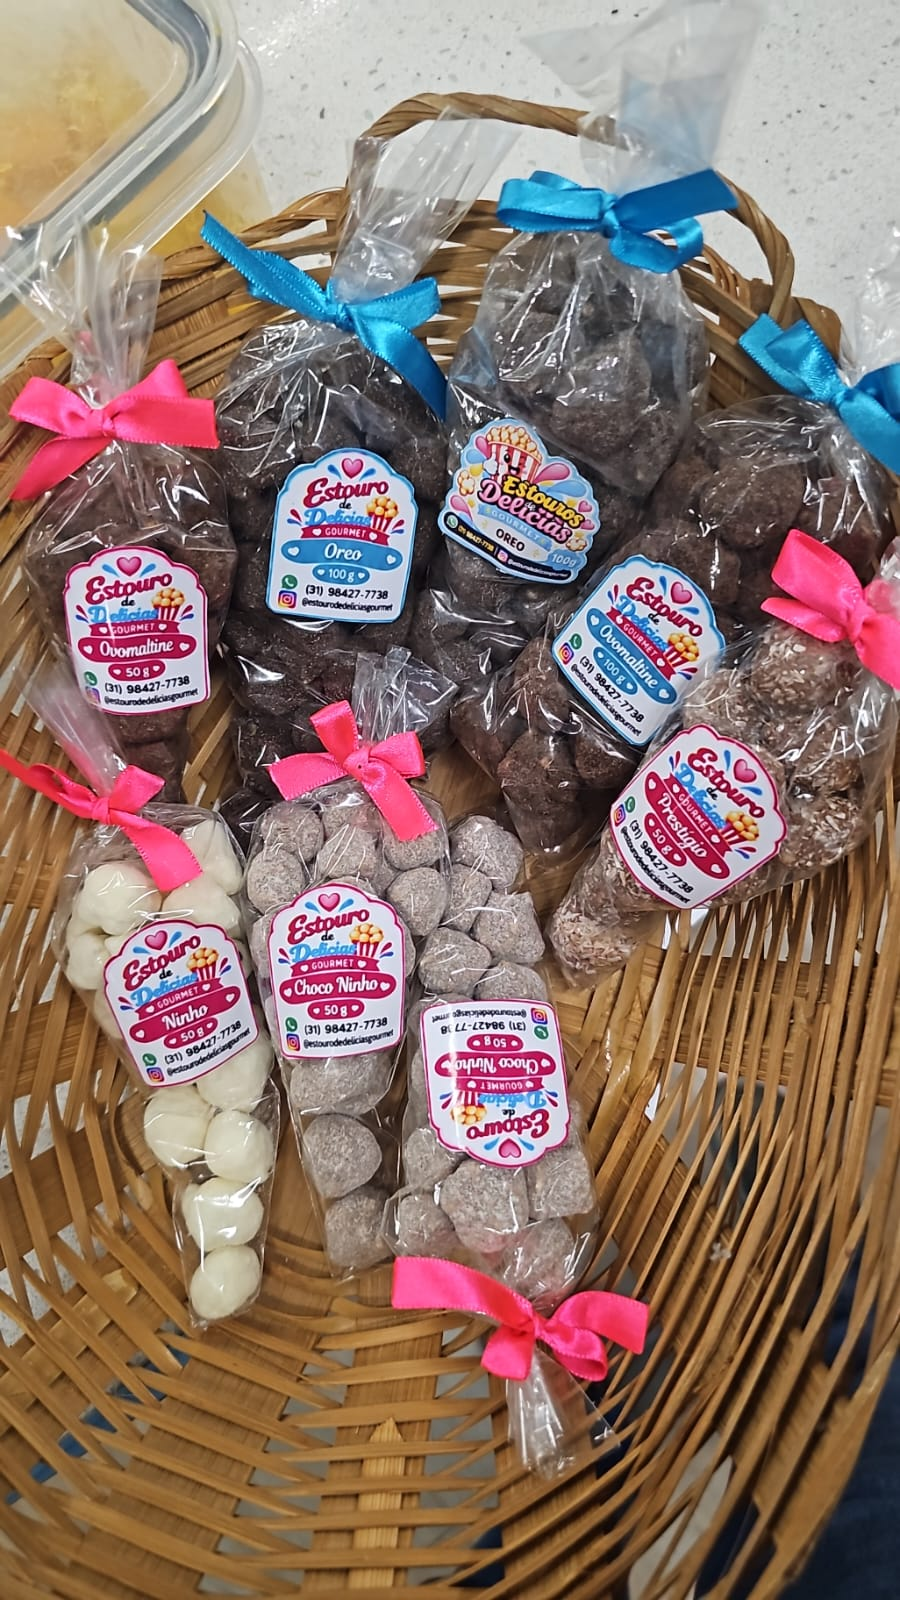
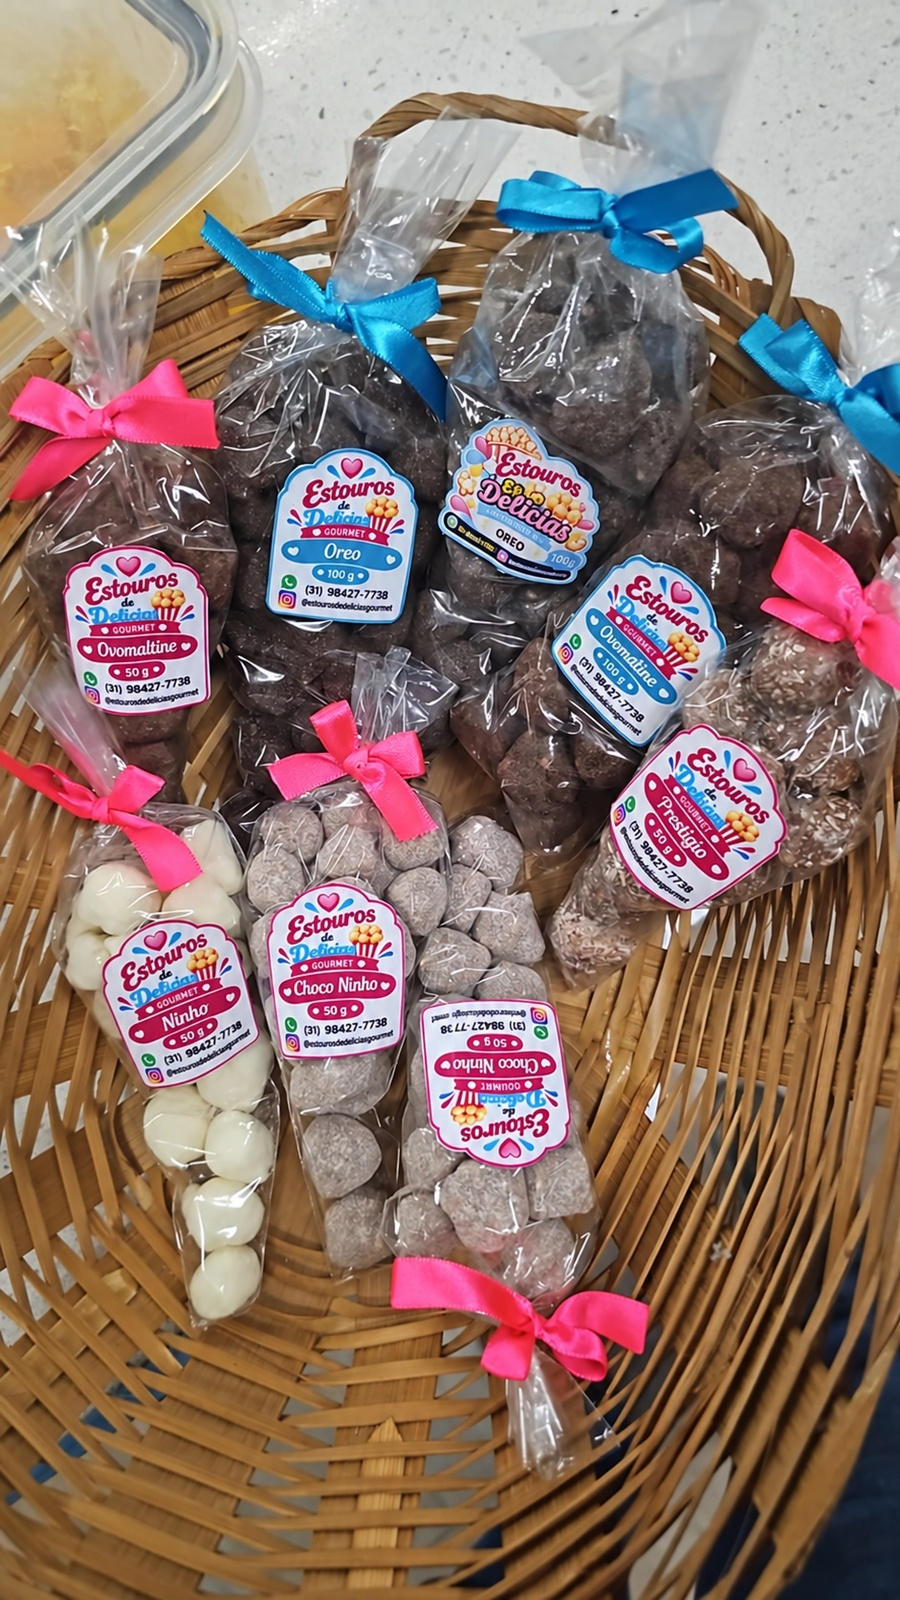
feat: rename brand to Estouros de Delícias

diff --git a/src/pages/Login.tsx b/src/pages/Login.tsx
@@ -72,7 +72,7 @@ export function Login() {
       <IonContent>
         <div className="gourmet login-screen">
           <header className="login-header">
-            <Link to="/" aria-label="Estouro de Delícias, início">
+            <Link to="/" aria-label="Estouros de Delícias, início">
               <Brand />
             </Link>
             <Link className="login-back" to="/">
@@ -99,7 +99,7 @@ export function Login() {
               <div className="login-illustration" aria-hidden="true">
                 <span>♡</span>
                 <strong>
-                  Estouro
+                  Estouros
                   <br />
                   <i>de delícias</i>
                 </strong>
@@ -188,7 +188,7 @@ export function Login() {
             </section>
           </main>
           <footer className="login-footer">
-            Estouro de Delícias · Um cuidado que vai além do sabor.
+            Estouros de Delícias · Um cuidado que vai além do sabor.
           </footer>
         </div>
       </IonContent>

diff --git a/src/components/LandingCatalog.tsx b/src/components/LandingCatalog.tsx
@@ -181,7 +181,7 @@ export function LandingCatalog({ isOpen, onClose }: { isOpen: boolean; onClose: 
                 <article key={flavor.name} className={`g-flavor ${flavor.color}`}>
                   <div className="g-flavor-art" aria-hidden="true">
                     <span className="g-flavor-symbol">{flavor.symbol}</span>
-                    <span className="g-art-label">ESTOURO DE DELÍCIAS</span>
+                    <span className="g-art-label">ESTOUROS DE DELÍCIAS</span>
                     <span className="g-art-word">{flavor.name}</span>
                     <span className="g-art-size">GOURMET · {packageSizes[size]} g</span>
                   </div>

diff --git a/index.html b/index.html
@@ -10,9 +10,9 @@
     <meta name="theme-color" content="#eb0956" />
     <meta
       name="description"
-      content="Pipocas gourmet feitas com amor em cada estouro. Conheça os sabores e escolha seu favorito na Estouro de Delícias."
+      content="Pipocas gourmet feitas com amor em cada estouro. Conheça os sabores e escolha seu favorito na Estouros de Delícias."
     />
-    <title>Estouro de Delícias | Pipocas gourmet</title>
+    <title>Estouros de Delícias | Pipocas gourmet</title>
   </head>
   <body>
     <div id="root"></div>

diff --git a/supabase/templates/invite.html b/supabase/templates/invite.html
@@ -1,4 +1,4 @@
-<h2>Você recebeu um convite para o Estouro de Delícias</h2>
+<h2>Você recebeu um convite para a Estouros de Delícias</h2>
 <p>Para acessar sua conta, confirme o convite e defina sua própria senha.</p>
 <p><a href="{{ .SiteURL }}/auth/invite?token_hash={{ .TokenHash }}">Aceitar convite e definir minha senha</a></p>
 <p>Se você não esperava este convite, ignore esta mensagem. Não compartilhe este link.</p>

diff --git a/src/pages/Demo.tsx b/src/pages/Demo.tsx
@@ -136,7 +136,7 @@ export function Demo() {
             <div className="demo-content">
               <div className="page-heading">
                 <div>
-                  <p className="eyebrow">ESTOURO DE DELÍCIAS</p>
+                  <p className="eyebrow">ESTOUROS DE DELÍCIAS</p>
                   <h1>
                     {section === 'dashboard'
                       ? 'Seu negócio, em perspectiva.'

diff --git a/supabase/templates/recovery.html b/supabase/templates/recovery.html
@@ -1,4 +1,4 @@
 <h2>Redefina sua senha</h2>
-<p>Recebemos um pedido para redefinir sua senha no Estouro de Delícias.</p>
+<p>Recebemos um pedido para redefinir sua senha na Estouros de Delícias.</p>
 <p><a href="{{ .RedirectTo }}?token_hash={{ .TokenHash }}">Definir uma nova senha</a></p>
 <p>Se você não fez este pedido, ignore este e-mail. Use somente o link do e-mail mais recente.</p>

diff --git a/src/pages/Landing.tsx b/src/pages/Landing.tsx
@@ -13,7 +13,7 @@ export function Landing() {
       <IonContent>
         <div className="gourmet landing-modern">
           <header className="g-header">
-            <Link to="/" aria-label="Estouro de Delícias, início">
+            <Link to="/" aria-label="Estouros de Delícias, início">
               <Brand />
             </Link>
             <nav aria-label="Menu principal">

diff --git a/src/pages/AuthNotice.tsx b/src/pages/AuthNotice.tsx
@@ -10,7 +10,7 @@ export function AuthNotice({ notFound = false }: { notFound?: boolean }) {
           <Link to="/">
             <Brand />
           </Link>
-          <p className="eyebrow">ESTOURO DE DELÍCIAS</p>
+          <p className="eyebrow">ESTOUROS DE DELÍCIAS</p>
           <h1>
             {notFound
               ? 'Página não encontrada'

diff --git a/src/components/Brand.tsx b/src/components/Brand.tsx
@@ -5,7 +5,7 @@ export function Brand() {
         ✳
       </span>
       <span>
-        Estouro<span className="brand-small">de delícias · gourmet</span>
+        Estouros<span className="brand-small">de delícias · gourmet</span>
       </span>
     </span>
   );

diff --git a/capacitor.config.ts b/capacitor.config.ts
@@ -1,7 +1,7 @@
 import type { CapacitorConfig } from '@capacitor/cli';
 const config: CapacitorConfig = {
   appId: 'br.com.estourodelicias.app',
-  appName: 'Estouro de Delícias',
+  appName: 'Estouros de Delícias',
   webDir: 'dist',
 };
 export default config;

diff --git a/src/styles.css b/src/styles.css
@@ -2862,7 +2862,7 @@ button.g-button {
   border: 0;
 }
 
-/* Gestão: identidade visual da Estouro de Delícias. */
+/* Gestão: identidade visual da Estouros de Delícias. */
 .management-shell {
   --pink: #eb0956;
   --purple: #452365;

diff --git a/docs/vercel.md b/docs/vercel.md
@@ -4,7 +4,7 @@ A configuração `vercel.json` usa Vite, `npm run build` e saída `dist`. O rewr
 
 ## Projeto
 
-Importar o repositório no painel Vercel ou fazer deploy desta pasta via Vercel CLI autenticada. Selecionar Node.js 22.x (mesma versão de `.nvmrc`). A pasta `.git` deste workspace não é um checkout Git utilizável; para importação por Git, será necessário um repositório remoto. A alternativa é publicar pela CLI.
+Importar o repositório no painel Vercel ou fazer deploy desta pasta via Vercel CLI autenticada. Selecionar Node.js 22.x (mesma versão de `.nvmrc`). O projeto está vinculado ao repositório `DouglasRFDamasceno/estouroDeDelicias`, com branch de produção `main`. Também é possível publicar pela CLI autenticada.
 
 Configurar em Settings → Environment Variables, para Production e os ambientes Preview desejados:
 
@@ -32,11 +32,21 @@ Referências: https://vercel.com/docs/frameworks/frontend/vite e https://vercel.
 
 ## Nome e domínio de produção
 
-Projeto: `estourodedelicias`. Endereço: `https://estourodedelicias.vercel.app`.
+Projeto: `estourosdedelicias`. Endereço: `https://estourosdedelicias.vercel.app`.
 
-No Supabase Auth → URL Configuration, usar essa origem como Site URL (sem barra final) e autorizar os callbacks exatos `/auth/invite`, `/auth/callback` e `/auth/recovery`. O template de convite usa SiteURL, e a aplicação usa `window.location.origin` para os callbacks de recuperação/confirmação. Não há domínio antigo fixo no frontend. Caso a Edge Function `invite-user` seja publicada, configurar seu segredo servidor `APP_ORIGIN=https://estourodedelicias.vercel.app`.
+No Supabase Auth → URL Configuration, usar essa origem como Site URL (sem barra final) e autorizar os callbacks exatos `/auth/invite`, `/auth/callback` e `/auth/recovery`. O template de convite usa SiteURL, e a aplicação usa `window.location.origin` para os callbacks de recuperação/confirmação. Não há domínio antigo fixo no frontend. Caso a Edge Function `invite-user` seja publicada, configurar seu segredo servidor `APP_ORIGIN=https://estourosdedelicias.vercel.app`.
 
 A vinculação local da CLI mantém o mesmo projectId e orgId; somente projectName muda. O nome do pacote npm é independente do domínio e não precisa ser alterado.
+
+### Renomeação publicada em 12/10/2026
+
+O mesmo projeto Vercel foi renomeado para `estourosdedelicias`. O domínio `https://estourosdedelicias.vercel.app` está verificado e publicado com a marca nova. Deployment de produção: `dpl_65BMt3HXsKZLCxoemhnSodZMkaSX`, enviado pela CLI a partir da branch `feat/rename-brand-estouros` e promovido após o build remoto concluir. O repositório Git permanece com o nome existente e `main` continua sendo a branch de produção para deploys por Git; as alterações de marca foram preparadas nessa branch para integração na `main`, mantendo os próximos deploys por Git alinhados à publicação manual.
+
+`APP_ORIGIN` de produção foi atualizado para `https://estourosdedelicias.vercel.app`. Os domínios antigos `estourodedelicias.vercel.app` e `estouro-de-delicias.vercel.app` fazem redirect 307 para o novo, preservando caminho e query string. A sessão do navegador é vinculada à origem; usuários podem precisar entrar novamente no domínio novo.
+
+Os três callbacks novos do Supabase foram verificados como destinos autorizados. Após ajuste do responsável no painel, o Site URL também foi confirmado na origem nova. A verificação usou hashes inválidos, sem consumir convites reais ou enviar e-mails. Não há Edge Functions publicadas neste projeto, portanto não houve segredo `APP_ORIGIN` de função para atualizar. Os modelos de e-mail podem ser atualizados no painel Auth com os HTMLs em `supabase/templates`. O responsável confirmou que não há SMTP próprio configurado e optou por manter o serviço padrão do Supabase; configurar SMTP não é requisito desta publicação.
+
+Validação publicada: HTTP 200 no início, login, conta, gestão, nos três callbacks e na foto atualizada; redirects 307 dos dois domínios antigos, inclusive com caminho de recuperação e parâmetro de teste; um pedido vazio retornou 400 antes da admissão/gravação, confirmando que a API aceita a origem nova. Site, 13 cartões do catálogo e login foram conferidos em Chromium nas larguras de 390 e 1280 px, sem erros JavaScript. Não foram feitos login real, envio de pedido válido ou envio de e-mails nesta validação.
 
 ## Cabeçalhos de segurança
 
@@ -44,6 +54,6 @@ Na Vercel, os cabeçalhos para todas as rotas são definidos em `vercel.json`. O
 
 A Content-Security-Policy permite scripts apenas da própria origem, bloqueia scripts inline/event handlers, objetos, frames, incorporação do site em outros sites e alteração de base URL. Permite os estilos inline usados pelo Ionic/React, Google Fonts, imagens locais/data URI e conexões com Supabase e ViaCEP. Links externos de navegação, como WhatsApp, continuam disponíveis. A Permissions-Policy desabilita câmera, microfone, localização, pagamento, USB, captura de tela e sensores que a aplicação não utiliza. HSTS é fornecido pela Vercel no HTTPS; os cabeçalhos existentes de tipo de conteúdo, referência e frames são preservados.
 
-Depois do próximo deploy, verificar os cabeçalhos com `curl -I https://estourodedelicias.vercel.app/` e também `/entrar` e `/conta`. Repetir a avaliação no Security Headers. Testar modal de sabores, ícones Ionic, fontes, login, recuperação e consulta de CEP; conferir no console do navegador se há violações de CSP. `vite preview` não aplica os cabeçalhos definidos pela Vercel. A nota só pode ser confirmada após publicação e nova análise.
+Depois do próximo deploy, verificar os cabeçalhos com `curl -I https://estourosdedelicias.vercel.app/` e também `/entrar` e `/conta`. Repetir a avaliação no Security Headers. Testar modal de sabores, ícones Ionic, fontes, login, recuperação e consulta de CEP; conferir no console do navegador se há violações de CSP. `vite preview` não aplica os cabeçalhos definidos pela Vercel. A nota só pode ser confirmada após publicação e nova análise.
 
 Referências: [headers na Vercel](https://vercel.com/docs/project-configuration#headers), [CSP](https://developer.mozilla.org/en-US/docs/Web/HTTP/Reference/Headers/Content-Security-Policy) e [Permissions-Policy](https://developer.mozilla.org/en-US/docs/Web/HTTP/Reference/Headers/Permissions-Policy).
